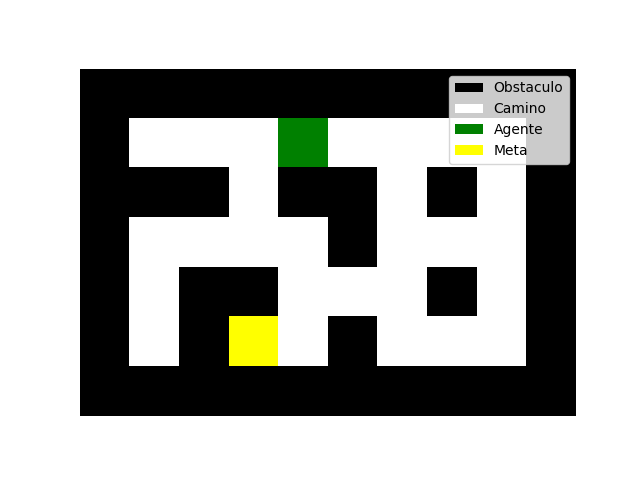
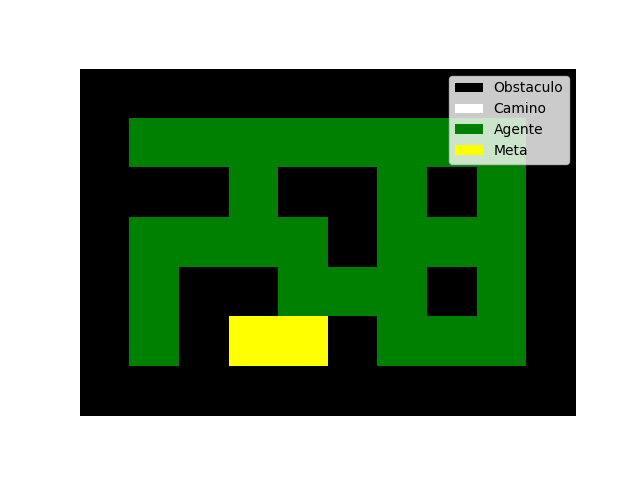
commit

Changed region(s): [[0.1875, 0.2188, 0.8438, 0.7812]]

diff --git a/practicas_tensor/tensor.py b/practicas_tensor/tensor.py
@@ -18,15 +18,38 @@ class Enviroment:
 
         self.actual_agent_position=self.agent_position[:]
 
+        self.visited_positions=set()
+
+        self.repetitive_penalty=-5
+        self.goal_reward=100
+        self.best_avg_reward=float("-inf")
+        self.historical_rewards=[]
+
     def reset(self):
         self.structure=copy.deepcopy(self.original_structure)
 
         self.actual_agent_position=self.agent_position[:]
 
+        self.visited_positions=set()
+
         return self.actual_agent_position
+
+    def update_penalty_needed(self,episode,reward):
+        self.historical_rewards.append(reward)
+
+        if episode%50==0 and len(self.historical_rewards)>=50:
+            last_data=self.historical_rewards[-50:]
+            average=sum(last_data)/len(last_data)
+
+            if average>self.best_avg_reward:
+                self.best_avg_reward=average
+            else:
+                if self.repetitive_penalty>-20:
+                    self.repetitive_penalty-=1
+                if self.goal_reward<210:
+                    self.goal_reward+=5
     
     def step(self,action):
-        reward_goal=100
         reward_obsta=-10
         reward_pass=1
         invalid_reward=-8
@@ -43,17 +66,21 @@ class Enviroment:
     
         if new_state[0]<0 or new_state[1]<0 or new_state[0]>=len(self.structure) or new_state[1]>=len(self.structure[0]):
             return invalid_reward,new_state,False
+        
+        if tuple(new_state) in self.visited_positions:
+            return self.repetitive_penalty,new_state,False
     
         cell= self.structure[new_state[0]][new_state[1]]
 
         if cell=="G":
             self.structure[new_state[0]][new_state[1]]="A"
             self.actual_agent_position=new_state
-            return reward_goal,new_state,True
+            return self.goal_reward,new_state,True
         elif cell=="#":
             return reward_obsta,new_state,False
         elif cell==".":
             self.structure[new_state[0]][new_state[1]]="A"
+            self.visited_positions.add(tuple(new_state))
             self.structure[self.actual_agent_position[0]][self.actual_agent_position[1]]="."
             self.actual_agent_position=new_state
             #for i in self.structure:
@@ -130,18 +157,40 @@ class Agent:
         self.model.add(tf.keras.layers.Dense(128,activation="relu"))
         self.model.add(tf.keras.layers.Dense(4,activation="linear"))
 
+        self.best_avg_reward=-float("inf")
+        self.memory_maxlen=5000
+
+        self.historial_rewards=[]
+
         self.gamma=0.99
         self.epsilon=1.0
         self.epsilon_min=0.1
         self.epsilon_decay=0.99
         self.learning_rate=0.005
-        self.batch_size=64
+        self.batch_size=16
         self.memory=deque(maxlen=5000)
 
         self.model.compile(
             optimizer=tf.keras.optimizers.Adam(learning_rate=self.learning_rate),
             loss="mean_squared_error"
         )
+
+    def update_memory_needed(self,episode,reward):
+
+        self.historial_rewards.append(reward)
+
+        if episode%50==0 and len(self.historial_rewards)>=50:
+            last_rewards=self.historial_rewards[-50:]
+            average=sum(last_rewards)/len(last_rewards)
+
+            if average>self.best_avg_reward:
+                self.best_avg_reward=average
+            else:
+                if self.memory_maxlen<11000:
+                    self.memory_maxlen+=200
+
+                if self.memory_maxlen> len(self.memory):
+                    self.memory=deque(list(self.memory),maxlen=self.memory_maxlen)
     
     def get_action(self,state):
 

diff --git a/practicas_tensor/agent.py b/practicas_tensor/agent.py
@@ -9,10 +9,8 @@ episode_rewards=[]
 
 plt.ion()
 
-done=False
-
 for episode in range(1000):
-    state=environ.reset()
+    environ.reset()
     state=environ.get_state()
 
     rewards=0
@@ -30,7 +28,14 @@ for episode in range(1000):
         next_state=environ.get_state()
 
         agent.remember(state,action,reward,next_state,done)
-        agent.replay()
+
+        if episode<50:
+            if step%20==0:
+                agent.replay()
+        else:
+            if step%10==0:
+                agent.replay()
+
 
         state=next_state
         rewards+=reward
@@ -38,6 +43,9 @@ for episode in range(1000):
         if done:
             break
     episode_rewards.append(rewards)
+
+    agent.update_memory_needed(episode,rewards)
+    environ.update_penalty_needed(episode,rewards)
 
     if agent.epsilon > agent.epsilon_min:
         agent.epsilon*= agent.epsilon_decay
